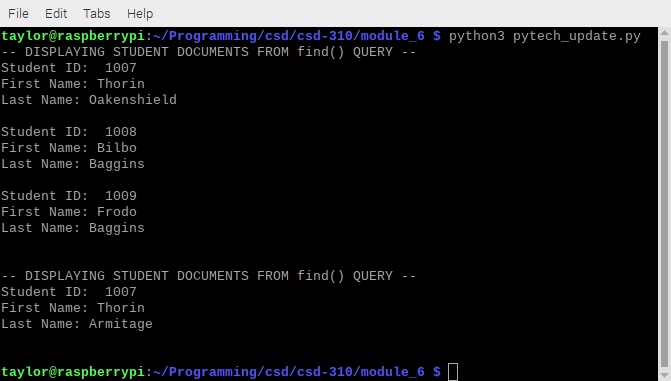
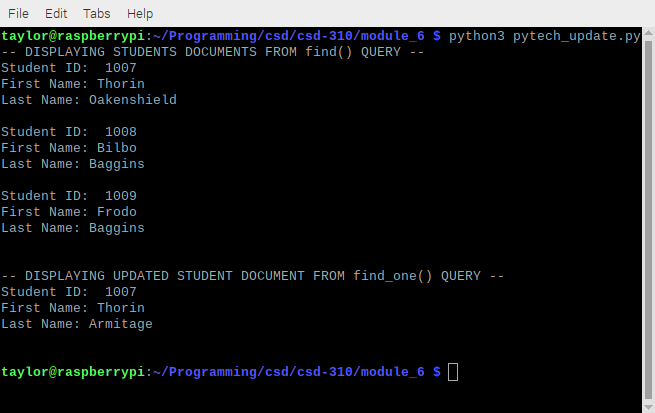
Tweaks to wording.

diff --git a/module_6/pytech_update.py b/module_6/pytech_update.py
@@ -13,7 +13,7 @@ db = client.pytech
 #holds all of the contents of the collection since no arguments are passed
 docs = db.students.find({})
 
-print("-- DISPLAYING STUDENT DOCUMENTS FROM find() QUERY --")
+print("-- DISPLAYING STUDENTS DOCUMENTS FROM find() QUERY --")
 
 #loops through all of the documents retrieved from the find({}) query and displays them nicely formatted
 for doc in docs:
@@ -34,7 +34,7 @@ db.students.update_one(filter, newValue)
 
 #prints out just one student record, the information from the student with a student_id of 1007
 doc = db.students.find_one({"student_id": "1007"})
-print("-- DISPLAYING STUDENT DOCUMENTS FROM find() QUERY --")
+print("-- DISPLAYING UPDATED STUDENT DOCUMENT FROM find_one() QUERY --")
 print(f"Student ID:  {doc['student_id']}")
 print(f"First Name: {doc['first_name']}")
 print(f"Last Name: {doc['last_name']}")
